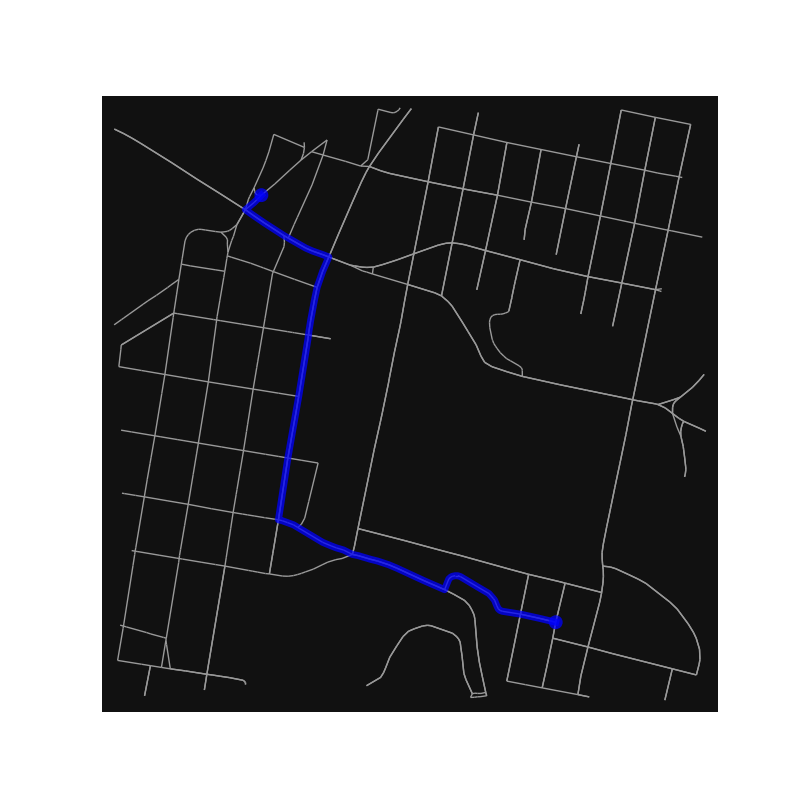
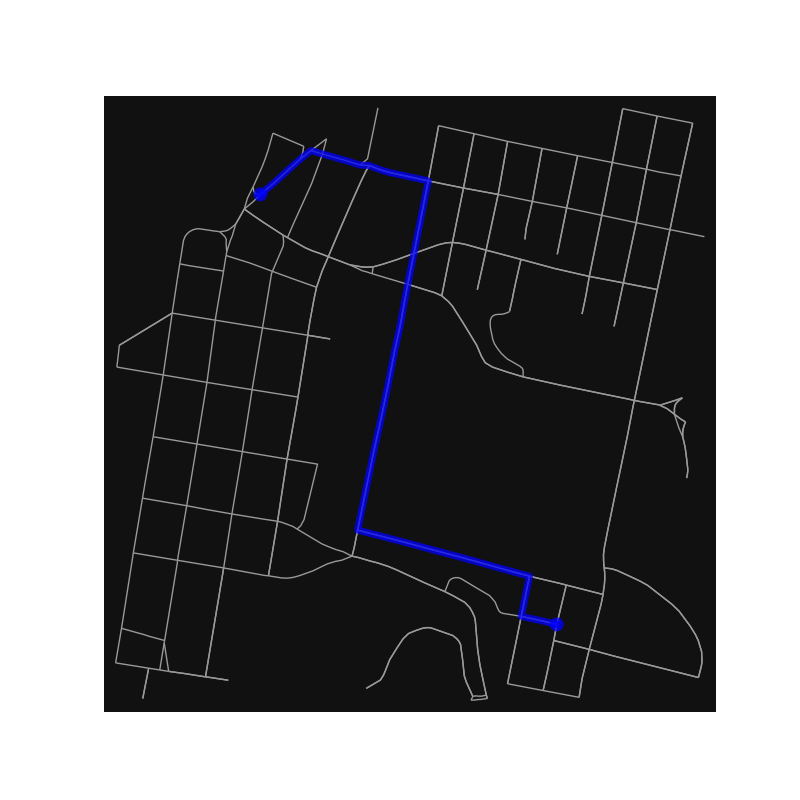
fix

diff --git a/server/main.py b/server/main.py
@@ -102,22 +102,22 @@ class Joyride(joyride_pb2_grpc.JoyRideServicer):
         target_time = request.time
         current_time = total_time
         
-        
         time_margin = target_time * 0.05
         step = 0
         eps = 100
-        print("wtf")
 
         while current_time < target_time - time_margin and step < eps:
             next_route = []
             last_node = start_node
-            for i in range(1, len(route) - 1,2):
+            for i in range(1, len(route) - 1, 2):
                 if current_time >= target_time - time_margin:
                     break
 
                 node = route[i]
                 node_attrib = G.nodes[node]
-                edges = list(G.edges(node, data=True))
+                edges = []
+                edges.extend(list(G.in_edges(node, data=True)))
+                edges.extend(list(G.out_edges(node, data=True)))
 
                 left_node = route[i - 1]
                 right_node = route[i + 1]
@@ -137,7 +137,7 @@ class Joyride(joyride_pb2_grpc.JoyRideServicer):
                 G.add_nodes_from([(node, node_attrib)])
                 G.add_edges_from(edges)
 
-                if found_path and len(new_route) > 2 and new_time + current_time < target_time + time_margin:
+                if found_path and len(new_route) > 3 and new_time + current_time < target_time + time_margin:
                     last_node = new_route[-1]
 
                     if not left_edge:
@@ -151,14 +151,13 @@ class Joyride(joyride_pb2_grpc.JoyRideServicer):
                     current_time += new_time
                     next_route.extend(new_route[:-1])
                 else:
-                    next_route.append(left_node)
+                    next_route.extend([left_node, node])
                     if not next_route:
                         next_route.append(last_node)
                     last_node = right_node
             route = next_route
             step += 1
-            print("Current Time:",current_time)
-            
+            print("Current Time:", current_time)
                 
         # Generate directions and node data and yield to gRPC client
         last_name = None
@@ -170,7 +169,9 @@ class Joyride(joyride_pb2_grpc.JoyRideServicer):
             
             edge = G.get_edge_data(route[i], route[i + 1])[0]
             bearing = int(edge["bearing"])
-            street_name = edge["name"]
+            street_name = ""
+            if "name" in edge:
+                street_name = edge["name"]
             direction = cardinal_direction(bearing)
 
             if not last_bearing:

diff --git a/client/main.py b/client/main.py
@@ -141,9 +141,9 @@ def get_joyride(stub, start, end, time):
 
         G = future.result()
 
-        fig, _ = ox.plot_graph_route(G, nodes, route_color="b", route_linewidth=5, 
-            route_alpha=0.75, node_size=0, show=False)
-        fig.savefig("route.png")
+        # fig, _ = ox.plot_graph_route(G, nodes, route_color="b", route_linewidth=5, 
+        #     route_alpha=0.75, node_size=0, show=False)
+        #fig.savefig("route.png")
     
     return response
 
@@ -193,7 +193,6 @@ class AppShell(cmd.Cmd):
         # Get user rating for the ride
         print("How did you feel about your joyride? ")
         rating = input("Rating: ")
-
 
 
 def run(ip, port):
